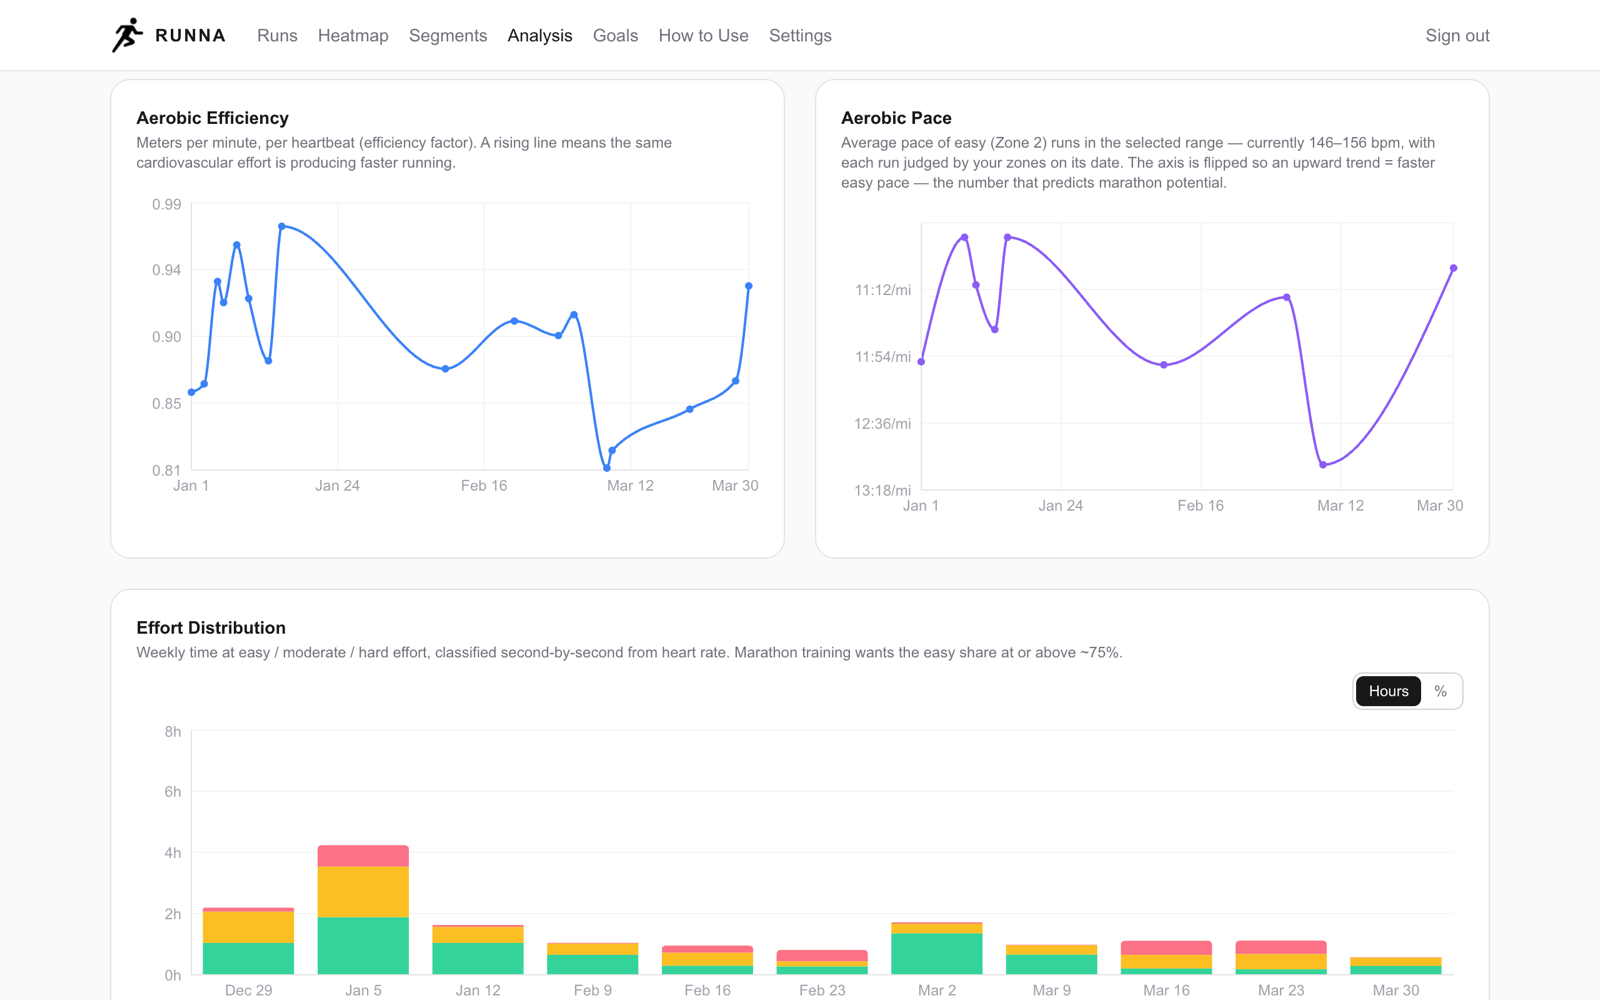
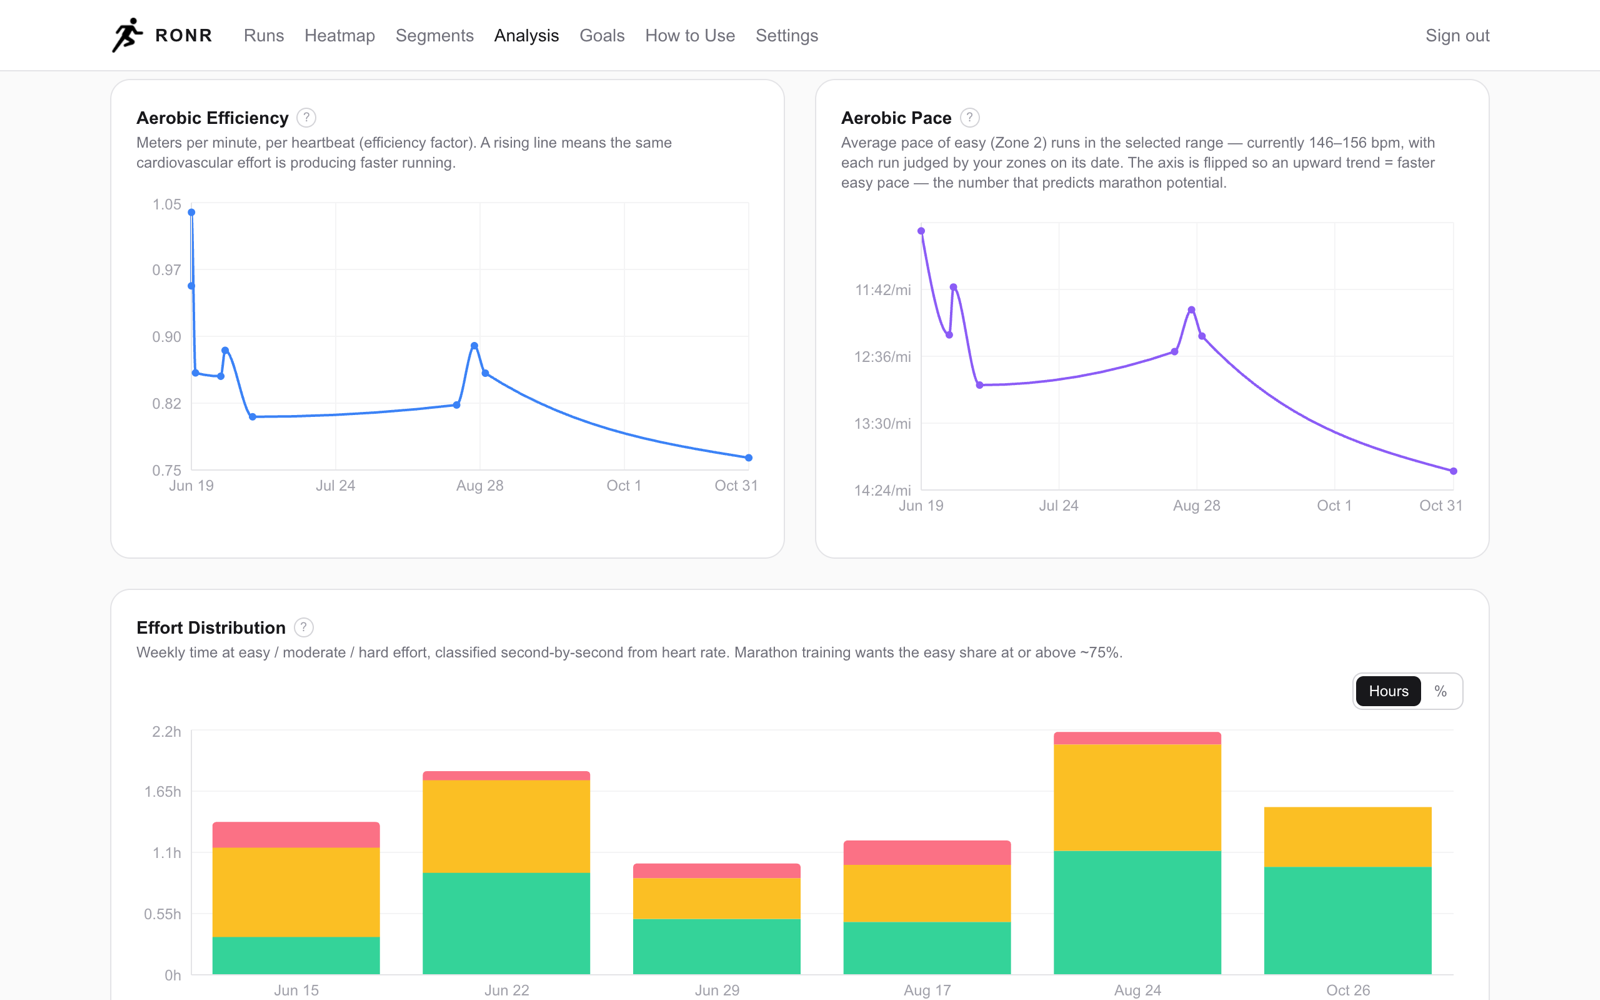
docs: RONR titles, name origin, and screenshots retaken with the new header
Retitle README and PRODUCT.md to RONR and explain the name in the README.
Retake every README/guide screenshot from the current demo (10 NYC runs)
so they show the RONR header and the chart help links.

diff --git a/README.md b/README.md
@@ -1,4 +1,6 @@
-# RUNNA — Personal Running Dashboard
+# RONR — Personal Running Dashboard
+
+*The name: RONR is short for Ron Ranjan, and it's "runner" without the vowels.*
 
 A private running dashboard for one runner. It pulls your runs from Intervals.icu (which syncs from Garmin and Strava) or from GPX/FIT files you upload, then turns them into maps, trends and coaching-style analysis built around one idea: **build a strong aerobic base, consistently, without getting hurt.**
 

diff --git a/PRODUCT.md b/PRODUCT.md
@@ -1,4 +1,4 @@
-# Running App — Product Definition
+# RONR — Product Definition
 
 ## Vision
 
